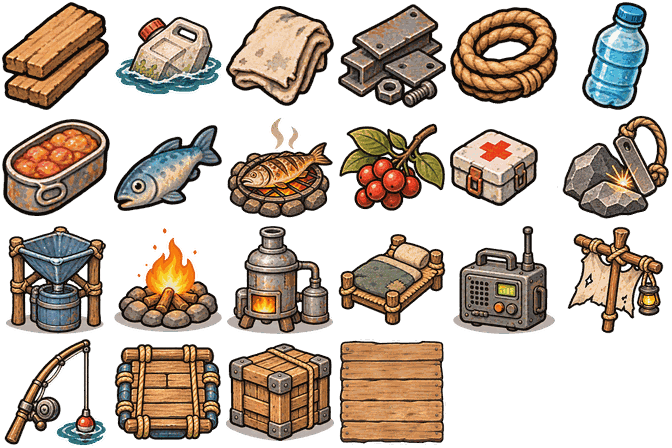
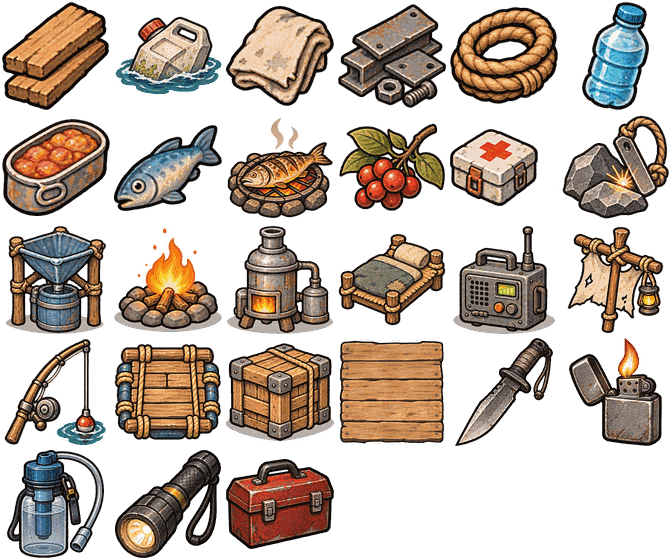
reclaim: 리클레임 1117-1700 모바일 테스트판 (가방 아이콘 5종)
Claude-Session: https://claude.ai/code/session_01BVqfE2pRqqtHLTZiTA5SVz

diff --git a/reclaim/game.js b/reclaim/game.js
@@ -16,14 +16,14 @@ if(API){const dpr=Math.min(2,info.pixelRatio||1);c.width=Math.max(1,Math.round((
  const s=Math.min(c.width/W,c.height/H);view={s,ox:(c.width-W*s)/2,oy:(c.height-H*s)/2}}
 else{c.width=W;c.height=H}
 function mkCanvas(w,h){const cv=API?API.createCanvas():document.createElement('canvas');cv.width=w;cv.height=h;return cv}
-const BUILD='1117-1640';
+const BUILD='1117-1700';
 // 안전장치: 음수 반지름이면 그리기 전체가 멈추므로 보정
 (function(){const P=Object.getPrototypeOf(g);if(!P||P.__safe)return;P.__safe=true;const oa=P.arc,oe=P.ellipse;
  if(oa)P.arc=function(x,y,r,a0,a1,ccw){return oa.call(this,x,y,r>0&&isFinite(r)?r:0,a0,a1,ccw)};
  if(oe)P.ellipse=function(x,y,rx,ry,rot,a0,a1,ccw){return oe.call(this,x,y,rx>0&&isFinite(rx)?rx:0,ry>0&&isFinite(ry)?ry:0,rot,a0,a1,ccw)}})();
 // 그림 자원: G1은 도형만 사용. 그림을 넣을 때 IMG_LIST·MUST에 추가하면 로딩 화면이 자동으로 기다린다
 const imgs={},imgFail={};const IMG_LIST=['hero','inf_walker','inf_runner','icons','world','title','tile_ocean','tile_grass'],MUST=IMG_LIST.slice();
-const ART={"cell":164,"hero":{"idle":{"row":0,"n":8},"walk":{"row":1,"n":8},"run":{"row":2,"n":8},"attack":{"row":3,"n":4},"gather":{"row":4,"n":4},"craft":{"row":5,"n":4},"fish":{"row":6,"n":4},"drink":{"row":7,"n":4},"eat":{"row":8,"n":4},"sleep":{"row":9,"n":2},"collapse":{"row":10,"n":4}},"inf_walker":{"walk":{"row":0,"n":8},"attack":{"row":1,"n":4},"down":{"row":2,"n":4}},"inf_runner":{"walk":{"row":0,"n":8},"attack":{"row":1,"n":4},"down":{"row":2,"n":4}},"icons":{"cell":112,"cols":6,"idx":{"plank":0,"plastic":1,"cloth":2,"scrap":3,"rope":4,"water":5,"can":6,"fish":7,"cooked":8,"berry":9,"med":10,"flint":11,"rain":12,"fire":13,"still":14,"bed":15,"radio":16,"sail":17,"rod":18,"lash":19,"crate":20,"deck":21}},"world":{"deck0":[0,0,128,128],"deck1":[130,0,128,128],"deck2":[260,0,128,128],"deck3":[390,0,128,128],"deckb0":[520,0,142,142],"debris_plank":[664,0,120,72],"debris_plastic":[786,0,110,70],"debris_cloth":[898,0,110,62],"debris_crate":[0,144,110,74],"debris_scrap":[112,144,110,71],"debris_supply":[224,144,120,119],"tree":[346,144,170,192],"tree_chop":[518,144,170,205],"stump":[690,144,120,93],"bush":[812,144,130,126],"rock":[0,351,140,129],"stream":[142,351,150,150],"hut":[294,351,300,238],"beach":[596,351,160,160],"boat":[758,351,200,110],"asphalt":[0,591,160,160],"building":[162,591,260,259],"car":[424,591,190,104],"plane":[616,591,300,277],"barricade":[0,870,210,93],"building2":[0,965,260,244],"car2":[262,965,190,129],"shadow":[454,965,360,168],"building3":[0,1211,260,244]}};// 그림 배치표 (res/*.png 아틀라스)
+const ART={"cell":164,"hero":{"idle":{"row":0,"n":8},"walk":{"row":1,"n":8},"run":{"row":2,"n":8},"attack":{"row":3,"n":4},"gather":{"row":4,"n":4},"craft":{"row":5,"n":4},"fish":{"row":6,"n":4},"drink":{"row":7,"n":4},"eat":{"row":8,"n":4},"sleep":{"row":9,"n":2},"collapse":{"row":10,"n":4}},"inf_walker":{"walk":{"row":0,"n":8},"attack":{"row":1,"n":4},"down":{"row":2,"n":4}},"inf_runner":{"walk":{"row":0,"n":8},"attack":{"row":1,"n":4},"down":{"row":2,"n":4}},"icons":{"cell":112,"cols":6,"idx":{"plank":0,"plastic":1,"cloth":2,"scrap":3,"rope":4,"water":5,"can":6,"fish":7,"cooked":8,"berry":9,"med":10,"flint":11,"rain":12,"fire":13,"still":14,"bed":15,"radio":16,"sail":17,"rod":18,"lash":19,"crate":20,"deck":21,"knife":22,"lighter":23,"filter":24,"flash":25,"tools":26}},"world":{"deck0":[0,0,128,128],"deck1":[130,0,128,128],"deck2":[260,0,128,128],"deck3":[390,0,128,128],"deckb0":[520,0,142,142],"debris_plank":[664,0,120,72],"debris_plastic":[786,0,110,70],"debris_cloth":[898,0,110,62],"debris_crate":[0,144,110,74],"debris_scrap":[112,144,110,71],"debris_supply":[224,144,120,119],"tree":[346,144,170,192],"tree_chop":[518,144,170,205],"stump":[690,144,120,93],"bush":[812,144,130,126],"rock":[0,351,140,129],"stream":[142,351,150,150],"hut":[294,351,300,238],"beach":[596,351,160,160],"boat":[758,351,200,110],"asphalt":[0,591,160,160],"building":[162,591,260,259],"car":[424,591,190,104],"plane":[616,591,300,277],"barricade":[0,870,210,93],"building2":[0,965,260,244],"car2":[262,965,190,129],"shadow":[454,965,360,168],"building3":[0,1211,260,244]}};// 그림 배치표 (res/*.png 아틀라스)
 function loadImg(name,tries=0){const im=API?(API.createImage?API.createImage():c.createImage()):new Image();im.onload=()=>{imgs[name]=im};im.onerror=()=>{if(tries<8)setTimeout(()=>loadImg(name,tries+1),600+tries*900);else imgFail[name]=1};im.src='res/'+name+(name==='title'||name.indexOf('tile_')===0?'.jpg':'.png')+'?v='+BUILD}
 IMG_LIST.forEach(n=>loadImg(n));
 const GLOW_COL={o:[255,150,60],y:[255,220,120],w:[255,250,235],b:[120,190,255]};const glow={};
@@ -39,7 +39,7 @@ function icon(k,x,y,size){const im=imgs.icons,I=ART.icons;if(!im||I.idx[k]===und
 function wsp(k,x,y,w,anchor){const im=imgs.world,r=ART.world[k];if(!im||!r)return false;const h=w*r[3]/r[2];g.drawImage(im,r[0],r[1],r[2],r[3],x-w/2,anchor==='bottom'?y-h:y-h/2,w,h);return true}
 function wspPart(k,sx,sy,sw,sh,dx,dy,dw,dh){const im=imgs.world,r=ART.world[k];if(!im||!r)return false;g.drawImage(im,r[0]+sx*r[2],r[1]+sy*r[3],sw*r[2],sh*r[3],dx,dy,dw,dh);return true}
 const ICON_OF={deck:'deck',rod:'rod',lash:'lash',flint:'flint',plank:'plank',plastic:'plastic',cloth:'cloth',scrap:'scrap',rope:'rope',water:'water',can:'can',fish:'fish',cooked:'cooked',med:'med',berry:'berry',crate:'crate',supply:'crate',
- rain:'rain',fire:'fire',still:'still',bed:'bed',radio:'radio',sail:'sail',bag_line:'rod',bag_water:'water',bag_can:'can',bag_med:'med',bag_rope:'rope',bag_tarp:'cloth',bag_radio:'radio'};
+ rain:'rain',fire:'fire',still:'still',bed:'bed',radio:'radio',sail:'sail',bag_line:'rod',bag_knife:'knife',bag_lighter:'lighter',bag_filter:'filter',bag_flash:'flash',bag_tools:'tools',bag_water:'water',bag_can:'can',bag_med:'med',bag_rope:'rope',bag_tarp:'cloth',bag_radio:'radio'};
 // ================================================================ 소리 (음원이 없으면 합성음으로 대체)
 const Music={el:null,cur:'',on:true,vol:.5,src:null,gain:null,bufs:{},nat:null,hidden:false,
  play(key){if(this.cur===key)return;this.cur=key;if(!this.on||this.hidden)return;this._start(key)},

diff --git a/reclaim/index.html b/reclaim/index.html
@@ -1,1 +1,1 @@
-<!doctype html><html lang="ko"><head><meta charset="utf-8"/><meta http-equiv="Cache-Control" content="no-cache"/><meta name="viewport" content="width=device-width,initial-scale=1,maximum-scale=1,user-scalable=no,viewport-fit=cover"/><title>RECLAIM · 돌아온 땅 (G1 프로토타입)</title><meta name="theme-color" content="#071016"/><style>*{box-sizing:border-box}html,body{margin:0;width:100%;height:100%;overflow:hidden;background:#03060a;touch-action:none}body{display:flex;justify-content:center;align-items:center;padding:env(safe-area-inset-top) env(safe-area-inset-right) env(safe-area-inset-bottom) env(safe-area-inset-left)}canvas{height:min(100dvh,177.8667vw);width:min(100vw,56.22dvh);display:block;touch-action:none;user-select:none;-webkit-user-select:none}@media (min-aspect-ratio:750/1334){canvas{height:100dvh;width:auto}}</style></head><body><canvas id="game" width="750" height="1334"></canvas><script src="game.js?v=1117-1640"></script></body></html>
+<!doctype html><html lang="ko"><head><meta charset="utf-8"/><meta http-equiv="Cache-Control" content="no-cache"/><meta name="viewport" content="width=device-width,initial-scale=1,maximum-scale=1,user-scalable=no,viewport-fit=cover"/><title>RECLAIM · 돌아온 땅 (G1 프로토타입)</title><meta name="theme-color" content="#071016"/><style>*{box-sizing:border-box}html,body{margin:0;width:100%;height:100%;overflow:hidden;background:#03060a;touch-action:none}body{display:flex;justify-content:center;align-items:center;padding:env(safe-area-inset-top) env(safe-area-inset-right) env(safe-area-inset-bottom) env(safe-area-inset-left)}canvas{height:min(100dvh,177.8667vw);width:min(100vw,56.22dvh);display:block;touch-action:none;user-select:none;-webkit-user-select:none}@media (min-aspect-ratio:750/1334){canvas{height:100dvh;width:auto}}</style></head><body><canvas id="game" width="750" height="1334"></canvas><script src="game.js?v=1117-1700"></script></body></html>

diff --git a/reclaim/README_KO.md b/reclaim/README_KO.md
@@ -1,6 +1,6 @@
 # RECLAIM: 돌아온 땅 — G1 도형 프로토타입 (A트랙 미니게임판)
 
-빌드 1117-1640 · 웹 테스트판 (토스 앱인토스·위챗·더우인 공통 game.js)
+빌드 1117-1700 (가방 아이콘 5종을 ChatGPT 그림으로 교체) · 웹 테스트판 (토스 앱인토스·위챗·더우인 공통 game.js)
 
 ## 들어 있는 것
 - 1막 탈출: 탭해서 이동, 가방 8칸 고르기, 아래에서 올라오는 불길, 감염체 피하기, 비행기 탑승
